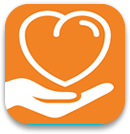
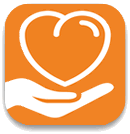
优化

diff --git a/server/webapp/index.html b/server/webapp/index.html
@@ -68,7 +68,7 @@ div.index-description .index-description-right .index-description-title div.app-
 <div class="container">
 <div class="row">
 <div class="col-md-6 index-description-image">
-<img src="images/index-description-phone.png" style="width: 90%;">
+<img src="images/index-description-phone.jpg" style="width: 90%;">
 </div>
 <div class="col-md-6 index-description-right">
 <div class="index-description-title clearfix">
